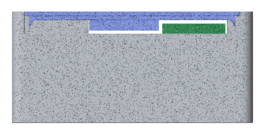
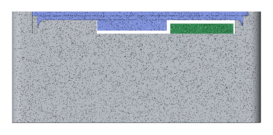
fix(case): 4 mm SMA side wall and a knock-out over the SMA hole
Print feedback: the antenna levers on the 2 mm wall and cracks it. The
whole SMA-side wall is now 4 mm, grown outward (case 62 mm wide); a local
pad would only move the break. The D-hole is closed on the outside by a
0.45 mm knock-out (one extrusion line), cut out with a knife only when an
SMA antenna is fitted, so the case stays closed with an in-case antenna.

Claude-Session: https://claude.ai/code/session_01NRMLBLuUy5566yU1ZeqFdZ

diff --git a/case/tests/test_base.py b/case/tests/test_base.py
@@ -23,9 +23,9 @@ class TestDefaultBase:
         assert len(base.solids()) == 1
         assert base.is_valid
 
-    def test_has_the_outer_size_60_by_75_by_27_6(self, base):
+    def test_has_the_outer_size_62_by_75_by_27_6(self, base):
         bb = base.bounding_box()
-        assert bb.size.X == pytest.approx(60.0, abs=0.1)
+        assert bb.size.X == pytest.approx(62.0, abs=0.1)
         assert bb.size.Y == pytest.approx(75.0, abs=0.1)
         assert bb.size.Z == pytest.approx(27.6, abs=0.1)
         assert bb.min.Z == pytest.approx(board_z(0.0), abs=0.01)
@@ -88,13 +88,24 @@ class TestDefaultBase:
         assert solid_bz(base, -0.7, 25.0, 1.4)  # no recess away from the buttons
 
     def test_has_the_sma_d_hole_at_y_52(self, base):
-        x = P.INNER[1] + 1.0
+        x = P.INNER[1] + 1.0  # inside the wall, behind the knock-out
         zc = board_z(P.SMA_CASE_Z)
         assert not solid_bz(base, x, P.SMA_Y, zc)
         assert not solid_bz(base, x, P.SMA_Y, zc - 3.1)
         assert not solid_bz(base, x, P.SMA_Y, zc + 2.5)
         assert solid_bz(base, x, P.SMA_Y, zc + 2.8)  # the flat
         assert solid_bz(base, x, P.SMA_Y + 3.5, zc)
+
+    def test_makes_the_whole_sma_side_wall_4_mm_thick(self, base):
+        x = P.INNER[1] + P.SMA_WALL - 0.2
+        for y in (5.0, 35.0, 65.0):
+            assert solid_bz(base, x, y, 10.0)
+        assert not solid_bz(base, P.INNER[1] + P.SMA_WALL + 0.1, 35.0, 10.0)
+
+    def test_closes_the_sma_hole_with_a_one_line_knock_out(self, base):
+        zc = board_z(P.SMA_CASE_Z)
+        assert solid_bz(base, P.OUTER[1] - P.SMA_KNOCKOUT_T / 2, P.SMA_Y, zc)
+        assert not solid_bz(base, P.OUTER[1] - P.SMA_KNOCKOUT_T - 0.1, P.SMA_Y, zc)
 
     def test_has_1_mm_ribbon_plug_recesses_leaving_1_mm_of_wall(self, base):
         z = 8.0  # board Z, within the plug height

diff --git a/case/p4_case/params.py b/case/p4_case/params.py
@@ -27,7 +27,9 @@ PCB_X1, PCB_Y1 = 55.0, 68.0
 # cable wall (outer length 75 mm)
 HEADER_GAP = 2.5
 INNER = (-GAP, PCB_X1 + GAP, -GAP, PCB_Y1 + HEADER_GAP)  # x0, x1, y0, y1
-OUTER = (INNER[0] - WALL, INNER[1] + WALL, INNER[2] - WALL, INNER[3] + WALL)
+# the SMA side wall is twice as thick: the antenna levers on it (print feedback); it grows outward, the board is inside
+SMA_WALL = 4.0
+OUTER = (INNER[0] - WALL, INNER[1] + SMA_WALL, INNER[2] - WALL, INNER[3] + WALL)
 INNER_R = 2.0 + GAP  # board corner radius 2 + gap
 OUTER_R = 2.5  # outer vertical edges; concentric with the ribbon recess corners at the header end
 PLATE_T = 2.0  # case Z 0-2
@@ -95,6 +97,7 @@ SMA_Y = 52.0
 SMA_CASE_Z = 17.6
 SMA_D = 6.5
 SMA_FLAT = 5.9  # across the flat; the flat is on top
+SMA_KNOCKOUT_T = 0.45  # one extrusion line left over the hole at the outer face; cut it out to fit the SMA
 
 # --- lid and tabs (5.3) ---
 # 2.0: 1 mm body inside the walls + 1 mm flange in the rebate

diff --git a/case/p4_case/checks.py b/case/p4_case/checks.py
@@ -148,8 +148,13 @@ def opening_paths_spec() -> dict[str, Part]:
             board_z(P.HEADER_SLOT_BOTTOM) + 0.05,
             board_z(P.LID_UNDERSIDE) - 0.05,
         ),
+        # up to the knock-out, which is cut out by hand when an SMA is fitted
         "SMA": _x_rod(
-            P.SMA_Y, board_z(P.SMA_CASE_Z), 5.0, P.INNER[1] - 1, P.OUTER[1] + 2
+            P.SMA_Y,
+            board_z(P.SMA_CASE_Z),
+            5.0,
+            P.INNER[1] - 1,
+            P.OUTER[1] - P.SMA_KNOCKOUT_T - 0.05,
         ),
     }
     for key in ("button_a", "button_b"):

diff --git a/case/p4_case/base.py b/case/p4_case/base.py
@@ -183,7 +183,8 @@ def _buttons() -> Part:
 
 def _sma() -> Part:
     zc = board_z(P.SMA_CASE_Z)
-    x0, x1 = P.INNER[1] - EPS, P.OUTER[1] + 1
+    # the hole stops short of the outer face: a one-line knock-out closes it until an SMA is fitted
+    x0, x1 = P.INNER[1] - EPS, P.OUTER[1] - P.SMA_KNOCKOUT_T
     hole = x_cylinder(P.SMA_Y, zc, P.SMA_D, x0, x1)
     flat_z = zc + P.SMA_FLAT - P.SMA_D / 2
     keep = block(x0, x1, P.SMA_Y - P.SMA_D, P.SMA_Y + P.SMA_D, zc - P.SMA_D, flat_z)

diff --git a/docs/superpowers/specs/2026-11-02-p4-case-design.md b/docs/superpowers/specs/2026-11-02-p4-case-design.md
@@ -91,16 +91,16 @@ the result.
 | Opening the lid | lever it up through the grille with a small flat screwdriver; no pry cut-outs in this revision |
 | Board fixing | four M2.5 × 6 pan-head screws from the top, through the board into Ø6 × 5 mm standoffs with Ø2.2 pilot holes, where they cut their own thread (print feedback: the first Ø2.8 hole only gripped thick screws). The countersinks in the back plate stay, so countersunk screws with nuts from the back still work if the pilot is drilled out |
 | Board fitting | the board drops straight in from the open top, about 1.7 mm toward the header end, then slides forward (lifted 0.5 mm) so the USB and RJ45 go into their cable-wall holes, and settles onto the standoffs |
-| SMA | D-hole in the right (X = 55) wall; fitted after the board: the pigtail clips onto the board, the bulkhead goes out through the wall from inside, nut tightened outside |
+| SMA | D-hole in the right (X = 55) wall, closed on the outside by a 0.45 mm knock-out (one extrusion line) that is cut out with a knife when an SMA is fitted; fitted after the board: the pigtail clips onto the board, the bulkhead goes out through the wall from inside, nut tightened outside |
 | 40-pin header | wiring (jumpers or a ribbon cable) leaves through a slot along the top of the header-end wall; no opening in the lid over the header |
 | Wall mounting | two L-shaped keyholes in the flat back plate, 32 mm apart, for either orientation |
 | Table | lies on its back; stick-on rubber feet optional, not modelled |
 | Cooling | honeycomb lid (about 60% open over the grille area) plus the header-end slot; no vents in the back plate or side walls |
 | Buttons | Ø2.5 pin-holes in the left wall on the plunger axes; a finger can't reach the plunger |
-| Wall / plate thickness | 2.0 mm; lid plate 2.0 mm |
+| Wall / plate thickness | 2.0 mm, except the SMA side wall: 4.0 mm, grown outward (the antenna levers on it; print feedback); lid plate 2.0 mm |
 | Clearance board ↔ inner wall | 0.5 mm, with a local recess at the buttons (see 5.2) |
 | Clearance over the tallest part | 1.0 mm (lid underside at board Z 17.0); the extra 0.5 mm leaves 1 mm of wall above the USB opening |
-| Outer size | about 60 × 75 × 27.6 mm |
+| Outer size | about 62 × 75 × 27.6 mm |
 | Printing | FDM, 0.4 mm nozzle, PETG recommended (the tabs flex), PLA acceptable; no supports; base prints back-plate down, lid prints top-face down |
 
 ## 5. Geometry
@@ -238,8 +238,8 @@ sits inside the walls (2 mm total), so its underside is at case Z 25.6.
 
 1. Lower the board flat, pushed toward the header end, slide it forward so the USB and RJ45 go into their cable-wall
    holes, and let it settle onto the standoffs. Drive four M2.5 × 6 screws from the top into the standoffs' pilot holes.
-2. Clip the pigtail onto the antenna socket, push the SMA bulkhead out through the right wall from inside, and tighten
-   its nut on the outside.
+2. If an SMA antenna is used: cut out the knock-out, clip the pigtail onto the antenna socket, push the SMA bulkhead out
+   through the right wall from inside, and tighten its nut on the outside.
 3. Optional: plug wiring onto the 40-pin header and lead it out through the header-end slot.
 4. Set the lid on so the corner tabs drop into the corners, and press until the four tabs click.
 5. To open: lever the lid up through the grille with a small flat screwdriver, near a tab.

diff --git a/docs/case.md b/docs/case.md
@@ -73,8 +73,11 @@ make case-test    # the model's tests (about 1.5 min)
    slightly and slide it toward the cable wall so the USB and RJ45 go into their holes, then let it settle onto the
    standoffs. Drive the four M2.5 screws from the top through the board into the standoffs. Go gently on the first
    turn: the screw cuts its own thread in the plastic.
-2. **SMA:** clip the pigtail onto the board's antenna socket. Push the SMA bulkhead out through the D-hole in the right
-   wall from inside, and tighten its nut on the outside.
+2. **SMA (optional):** the D-hole in the right wall is closed on the outside by a thin knock-out skin, so the case
+   stays closed when you use an in-case antenna. To fit an SMA antenna, cut the skin out along the hole's edge with a
+   craft knife. Clip the pigtail onto the board's antenna socket, push the SMA bulkhead out through the hole from
+   inside, and tighten its nut on the outside. The wall is 4 mm thick on this side, so the antenna can't lever it
+   apart.
 3. **Header wiring (optional):** plug jumper wires or a 2×20 ribbon plug onto the 40-pin header and lead the wires out
    through the slot in the header-end wall. The way in under the lid is 3.5 mm tall.
 4. **Lid:** set it on so the four corner tabs drop into the corners, and press until it clicks.
